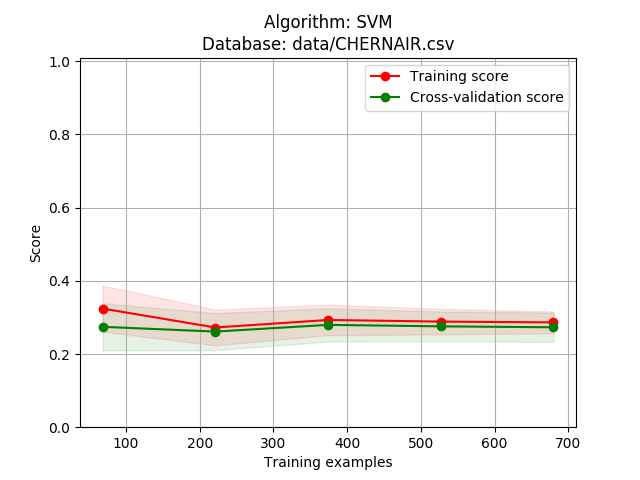
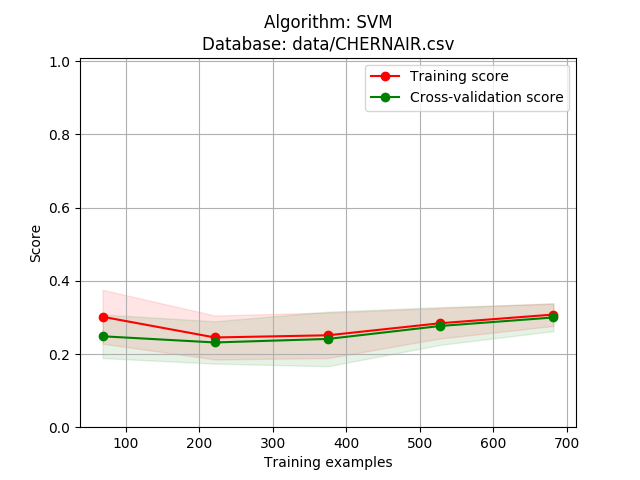
elo

diff --git a/src/serialization_flow/preprocess_algorithms/PreprocessAlgorithmBase.py b/src/serialization_flow/preprocess_algorithms/PreprocessAlgorithmBase.py
@@ -11,6 +11,7 @@ class PreprocessAlgorithmBase():
     def preprocess(self, data, y, params):
         return data
 
+
     def get_all_params_possibilities(self):
         preprocess_functions = []
         my_params = []
@@ -24,9 +25,15 @@ class PreprocessAlgorithmBase():
         all_params_possibilities = list(product(*my_params))
         print('all_params_possibilities')
         print(all_params_possibilities)
+        self.params_possibility_dic_list = []
+        idx = 0
         for params_possibility in all_params_possibilities:
-            params_possibility_dic = {}
+            self.params_possibility_dic_list.append({})
             for param in params_possibility:
-                params_possibility_dic[list(param.keys())[0]] = param[list(param.keys())[0]]
-            preprocess_functions.append({'name': self.name, 'params': params_possibility_dic, 'func': lambda data, y: self.preprocess(data, y, params_possibility_dic)})
+                self.params_possibility_dic_list[idx][list(param.keys())[0]] = param[list(param.keys())[0]]
+
+            print('params_possibility_dic')
+            print(self.params_possibility_dic_list[idx])
+            preprocess_functions.append({'name': self.name, 'params': self.params_possibility_dic_list[idx], 'func': lambda data, y, my_idx=idx: self.preprocess(data, y, self.params_possibility_dic_list[my_idx])})
+            idx += 1
         return preprocess_functions

diff --git a/src/serialization_flow/preprocess_algorithms/algorithms/Chi2.py b/src/serialization_flow/preprocess_algorithms/algorithms/Chi2.py
@@ -1,7 +1,7 @@
 from sklearn.feature_selection import SelectKBest, chi2
 
 from src.serialization_flow.preprocess_algorithms.PreprocessAlgorithmBase import PreprocessAlgorithmBase
-
+import numpy as np
 
 class Chi2(PreprocessAlgorithmBase):
 
@@ -12,5 +12,20 @@ class Chi2(PreprocessAlgorithmBase):
         self.name = 'chi2'
 
     def preprocess(self, data, y, params):
-        size = len(list(data.columns))
-        return SelectKBest(score_func=chi2, k=size-params['columns_to_reduce']).fit_transform(data, y)
+        size = len(list(data.head()))
+        data2 = data.copy()
+        for column in list(data2.head()):
+            max_val = -np.min(data[column].values) + 1
+            data2[column] = data2[column].apply(lambda x: x + max_val)
+
+        selector = SelectKBest(score_func=chi2, k=size-params['columns_to_reduce'])
+        selected = selector.fit_transform(data2, y)
+        # Get columns to keep and create new dataframe with those only
+        cols = selector.get_support(indices=True)
+        columns = []
+        for col in cols:
+            columns.append(list(data.head())[col])
+        print(columns)
+        params['selected_columns'] = str(columns)
+        drop_cols = [x for x in list(data.head()) if x not in columns]
+        return data.drop(drop_cols, axis=1)

diff --git a/src/serialization_flow/preprocess_algorithms/algorithms/ZScore.py b/src/serialization_flow/preprocess_algorithms/algorithms/ZScore.py
@@ -1,16 +1,29 @@
 from src.serialization_flow.preprocess_algorithms.PreprocessAlgorithmBase import PreprocessAlgorithmBase
-
+import numpy as np
 
 class ZScore(PreprocessAlgorithmBase):
 
-    def __init__(self):
+    def __init__(self, u=None, q=None):
+        self.u = u
+        self.q = q
         self.params_possibilities = {
-            "a": [1, 2],
-            "b": [4, 6]
+            "column_id": [0, 1],
         }
         self.name = 'z-score'
 
     def preprocess(self, data, y, params):
+        column = list(data.head())[int(params["column_id"])]
+        if self.u is None:
+            my_u = np.mean(data[column].values)
+            my_q = np.std(data[column].values)
+        else :
+            my_u = self.u
+            my_q = self.q
+
+        params['used_q'] = my_q
+        params['used_u'] = my_u
+
         print('run ZScore with params:')
         print(params)
+        data[column] = data[column].apply(lambda x: (x-my_u)/my_q)
         return data

diff --git a/src/serialization_flow/preprocess_data.py b/src/serialization_flow/preprocess_data.py
@@ -10,13 +10,18 @@ from src.serialization_flow.preprocess_algorithms.algorithms.ZScore import ZScor
 
 class DataPreprocessor():
 
+    def setup1(self):
+        # selekcja
+        chi2 = Chi2()
+
+        # normalizacja
+        zscore = ZScore()
+        log1 = LogScale()
+
+        self.data_preprocess_elements = [chi2, zscore, log1]
+
     def __init__(self):
-        # self.data_preprocess_elements = [LogScale(), NonnegativeNorm(), Chi2()]
-        self.data_preprocess_elements = [HighVaraince()]
-        # self.data_preprocess_elements = [LogScale(), LowVariance()]
-        #
-        # self.data_preprocess_elements = [ZScore(), LogScale(), NonnegativeNorm(), Chi2()]
-        # self.data_preprocess_elements = [MinMax(), LogScale(), HighVaraince()]
+        self.setup1()
 
 
     def load(self):

diff --git a/src/main/generateRaportProject.py b/src/main/generateRaportProject.py
@@ -89,8 +89,10 @@ for preprocess_function in preprocess_functions:
                         preprocess_info += func['name']
                         preprocess_info += ': '
                         preprocess_info += str(func['params'])
-                        preprocess_info += ' | '
+                        preprocess_info += ' _ '
 
+                    print('preprocess_info')
+                    print(preprocess_info)
                     result_storage.add_result(db_conf['data_file_path'] + preprocess_info, my_model_conf.copy(), results)
                     # if best_results[db_confs[db] + ", " + str(model_algorithm)] < results[0]:
                     #     best_results[db_confs[db] + ", " + str(model_algorithm)] = str(my_model_conf) + str(results[0])

diff --git a/src/serialization_flow/preprocess_algorithms/algorithms/LogScale.py b/src/serialization_flow/preprocess_algorithms/algorithms/LogScale.py
@@ -1,16 +1,18 @@
 from src.serialization_flow.preprocess_algorithms.PreprocessAlgorithmBase import PreprocessAlgorithmBase
-
+import numpy as np
 
 class LogScale(PreprocessAlgorithmBase):
 
     def __init__(self):
         self.params_possibilities = {
-            "a": [1, 2, 3],
-            "b": [4, 5, 6]
+            "column_id": [0, 1],
         }
         self.name = 'log scale'
 
     def preprocess(self, data, y, params):
-        print('run ZScore with params:')
+        print('run LogScale with params:')
         print(params)
+        column = list(data.head())[int(params["column_id"])]
+        max_val = -np.min(data[column].values) + 1
+        data[column] = data[column].apply(lambda x: np.log(x + max_val))
         return data
